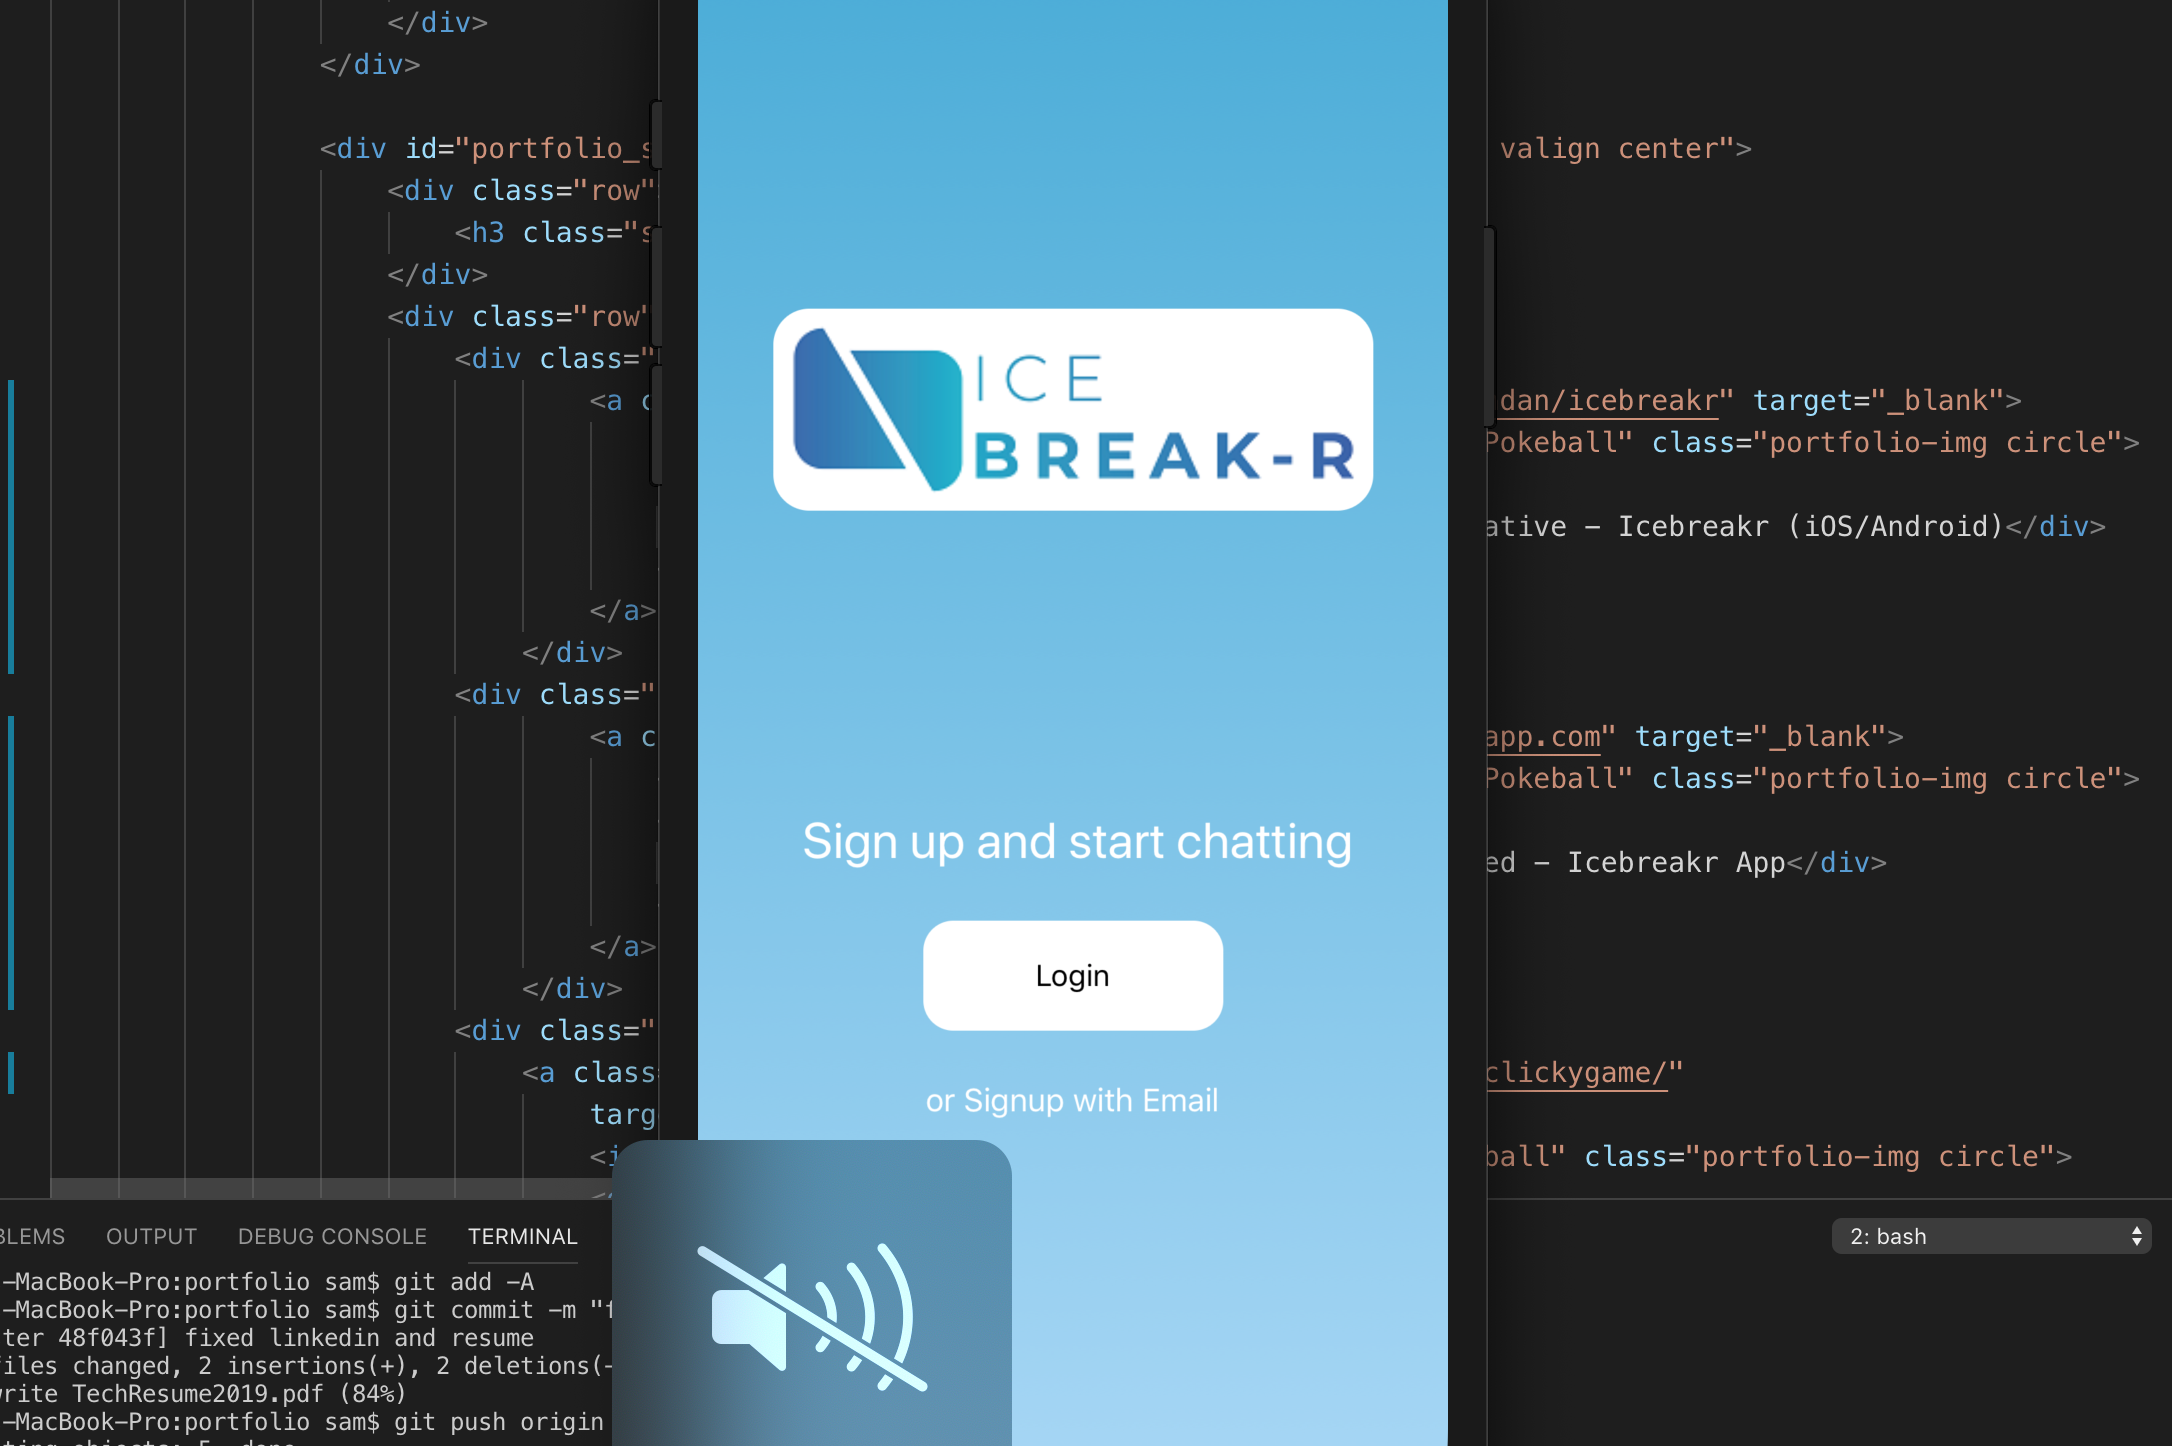
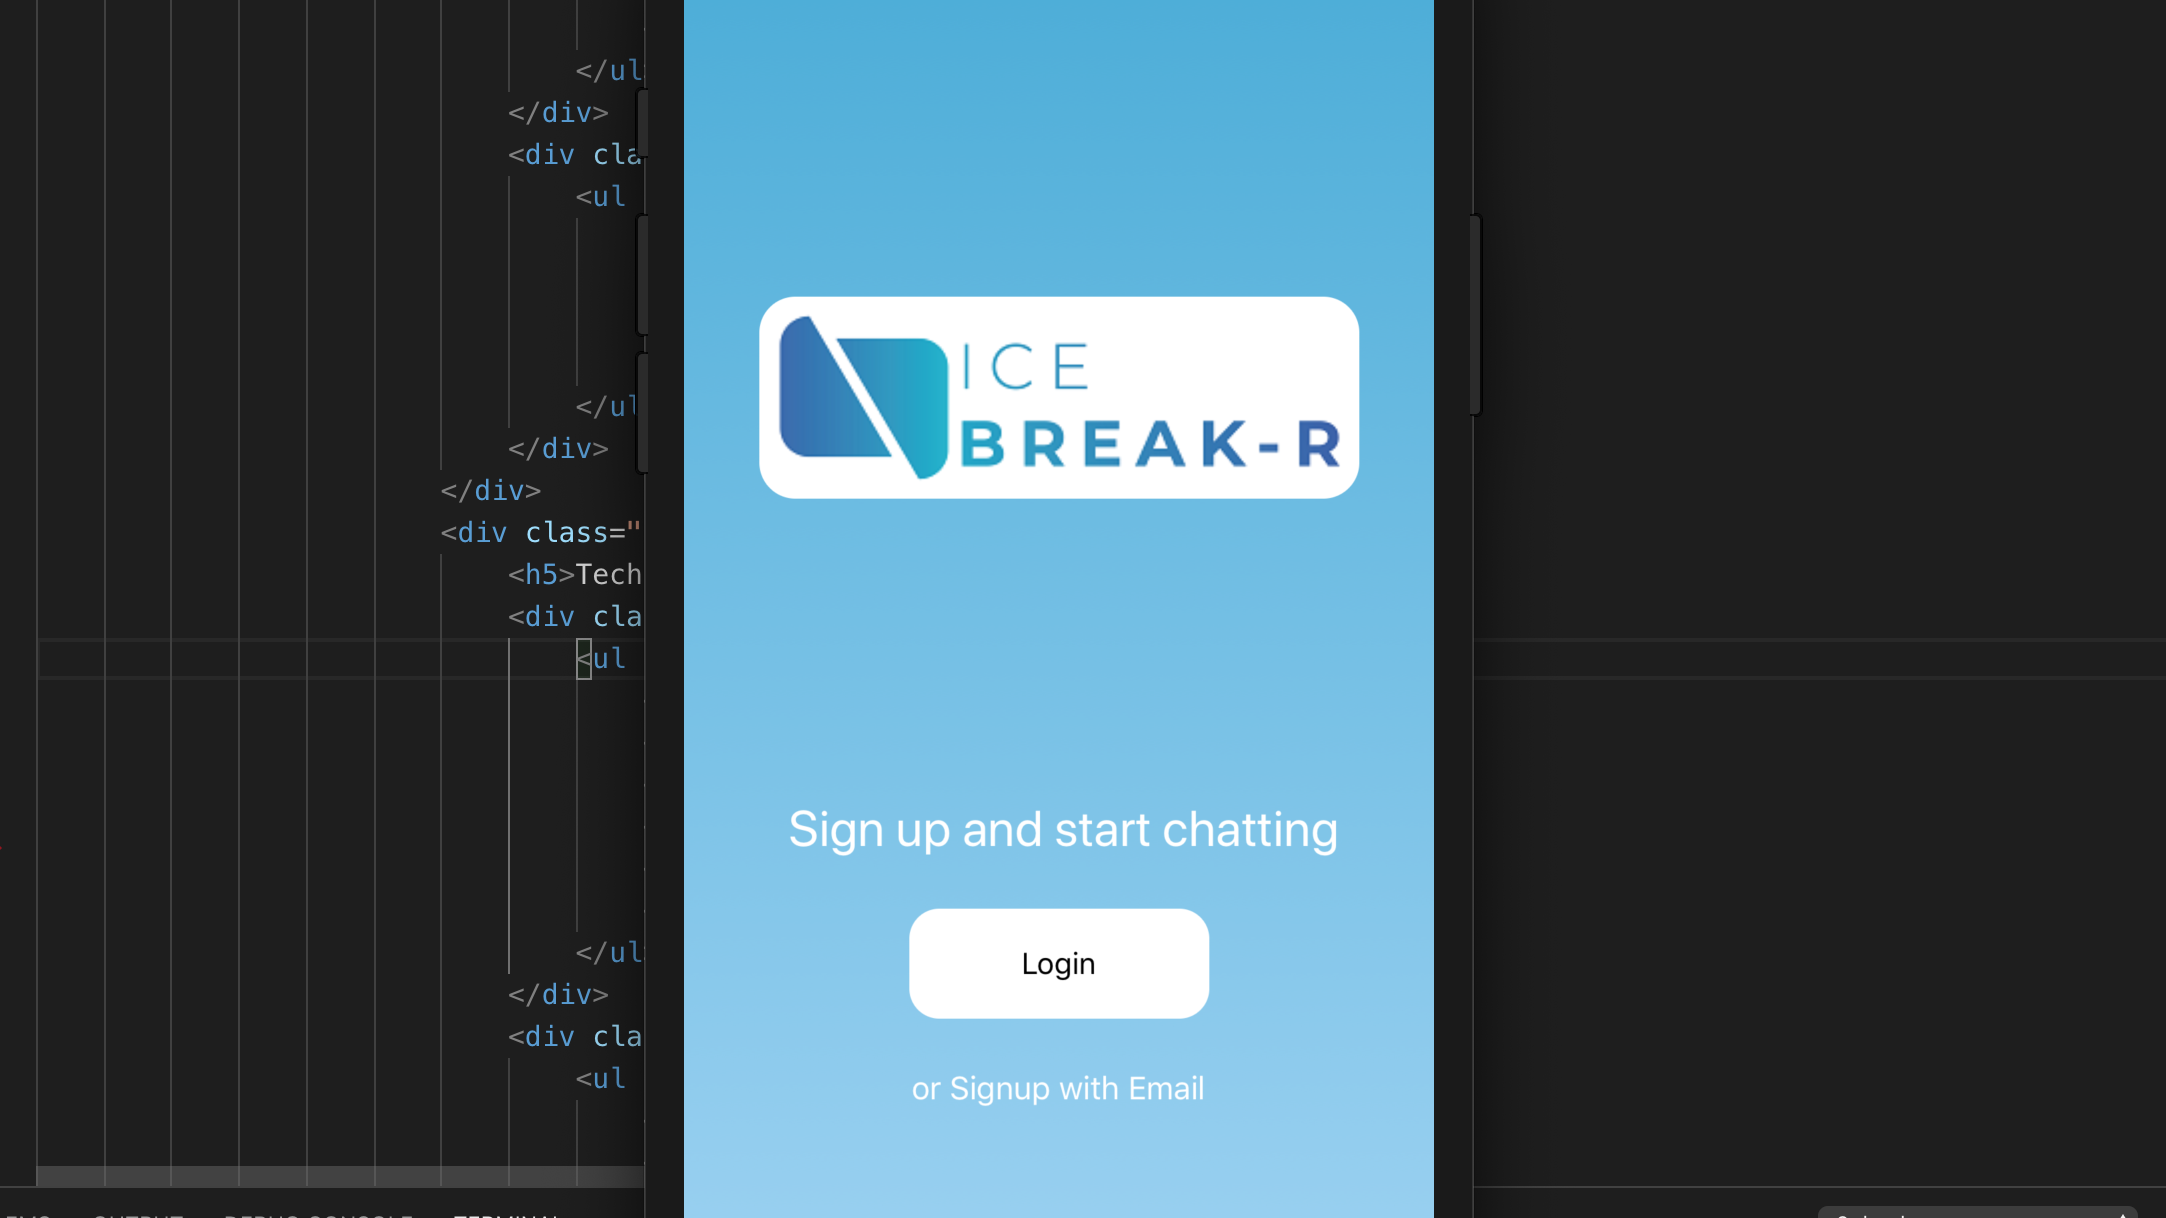
added links for email and phone number

diff --git a/index.html b/index.html
@@ -27,7 +27,8 @@
                 </div>
                 <div class="row">
                     <div id="profile-pic" class="col m12"><img class="circle"
-                            src="https://previews.123rf.com/images/solargaria/solargaria1709/solargaria170900007/85362512-user-icon-male-avatar-in-business-suit-businessman-flat-icon-man-in-business-suit-avatar-of-business.jpg">
+                            src="./images/self.jpg">
+                            <!-- https://previews.123rf.com/images/solargaria/solargaria1709/solargaria170900007/85362512-user-icon-male-avatar-in-business-suit-businessman-flat-icon-man-in-business-suit-avatar-of-business.jpg -->
                     </div>
                 </div>
                 <div class="row text-shadow">
@@ -165,7 +166,7 @@
                         <h3 class="section-header">.portfolio</h3>
                     </div>
                     <div class="row">
-                        <div class="col s12 m3 l3 img-container valign venter">
+                        <div class="col s12 m12 l3 img-container valign venter">
                             <a class="white-text" href="https://github.com/mikedandan/icebreakr" target="_blank">
                                 <img src="./images/reactnative.png" alt="Portfolio Pokeball"
                                     class="portfolio-img circle">
@@ -174,7 +175,7 @@
                                 </div>
                             </a>
                         </div>
-                        <div class="col s12 m3 l3 img-container valign venter">
+                        <div class="col s12 m12 l3 img-container valign venter">
                             <a class="white-text" href="https://icebreak-r.herokuapp.com" target="_blank">
                                 <img src="./images/icebreakr.png" alt="Portfolio Pokeball" class="portfolio-img circle">
                                 <div class="overlay circle center-align">
@@ -182,7 +183,7 @@
                                 </div>
                             </a>
                         </div>
-                        <div class="col s12 m3 l3 img-container valign venter">
+                        <div class="col s12 m12 l3 img-container valign venter">
                             <a class="white-text" href="https://samywang92.github.io/clickygame/" target="_blank">
                                 <img src="./images/react.png" alt="Portfolio Pokeball" class="portfolio-img circle">
                                 <div class="overlay circle center-align">
@@ -190,7 +191,7 @@
                                 </div>
                             </a>
                         </div>
-                        <div class="col s12 m3 l3 img-container valign venter">
+                        <div class="col s12 m12 l3 img-container valign venter">
                             <a class="white-text" href="https://heardman.github.io/Project1/#" target="_blank">
                                 <img src="./images/kangaride.png" alt="Portfolio Pokeball" class="portfolio-img circle">
                                 <div class="overlay circle center-align">
@@ -200,7 +201,7 @@
                         </div>
                     </div>
                     <div class="row">
-                        <div class="col s12 m3 l3 img-container valign venter">
+                        <div class="col s12 m12 l3 img-container valign venter">
                             <a class="white-text" href="https://scrapendo.herokuapp.com" target="_blank">
                                 <img src="./images/scrapendo.png" alt="Portfolio Pokeball" class="portfolio-img circle">
                                 <div class="overlay circle center-align">
@@ -208,7 +209,7 @@
                                 </div>
                             </a>
                         </div>
-                        <div class="col s12 m3 l3 img-container valign venter">
+                        <div class="col s12 m12 l3 img-container valign venter">
                             <a class="white-text" href="https://samywang92.github.io/Pokemon-RPG/" target="_blank">
                                 <img src="./images/pkmn-battle.png" alt="Portfolio Pokeball"
                                     class="portfolio-img circle">
@@ -217,7 +218,7 @@
                                 </div>
                             </a>
                         </div>
-                        <div class="col s12 m3 l3 img-container valign venter">
+                        <div class="col s12 m12 l3 img-container valign venter">
                             <a class="white-text" href="https://github.com/samywang92/Project3" target="_blank">
                                 <img src="./images/chess.png" alt="Portfolio Pokeball" class="portfolio-img circle">
                                 <div class="overlay circle center-align">
@@ -225,7 +226,7 @@
                                 </div>
                             </a>
                         </div>
-                        <div class="col s12 m3 l3 img-container valign venter">
+                        <div class="col s12 m12 l3 img-container valign venter">
                             <a class="white-text" href="https://youtu.be/POXEHaOsOvI?t=1m45s" target="_blank">
                                 <img src="./images/voice-chess.png" alt="Portfolio Pokeball"
                                     class="portfolio-img circle">
@@ -266,8 +267,8 @@
     <div id="contactForm" class="modal">
         <div class="modal-content valign center black white-text">
             <h4>Contact Me</h4>
-            <p><i class="material-icons prefix">phone</i> (714) 369-7988</p>
-            <p><i class="material-icons prefix">mail</i> samuelwangkc@gmail.com</p>
+            <p><i class="material-icons prefix">phone</i> <a href="tel:714-369-7988">(714) 369-7988</a></p>
+            <p><i class="material-icons prefix">mail</i><a href="mailto:samuelwangkc@gmail.com">samuelwangkc@gmail.com</a></p>
             <div class="row">
                 <div class="col m2 offset-m5">
                     <div class="row">
